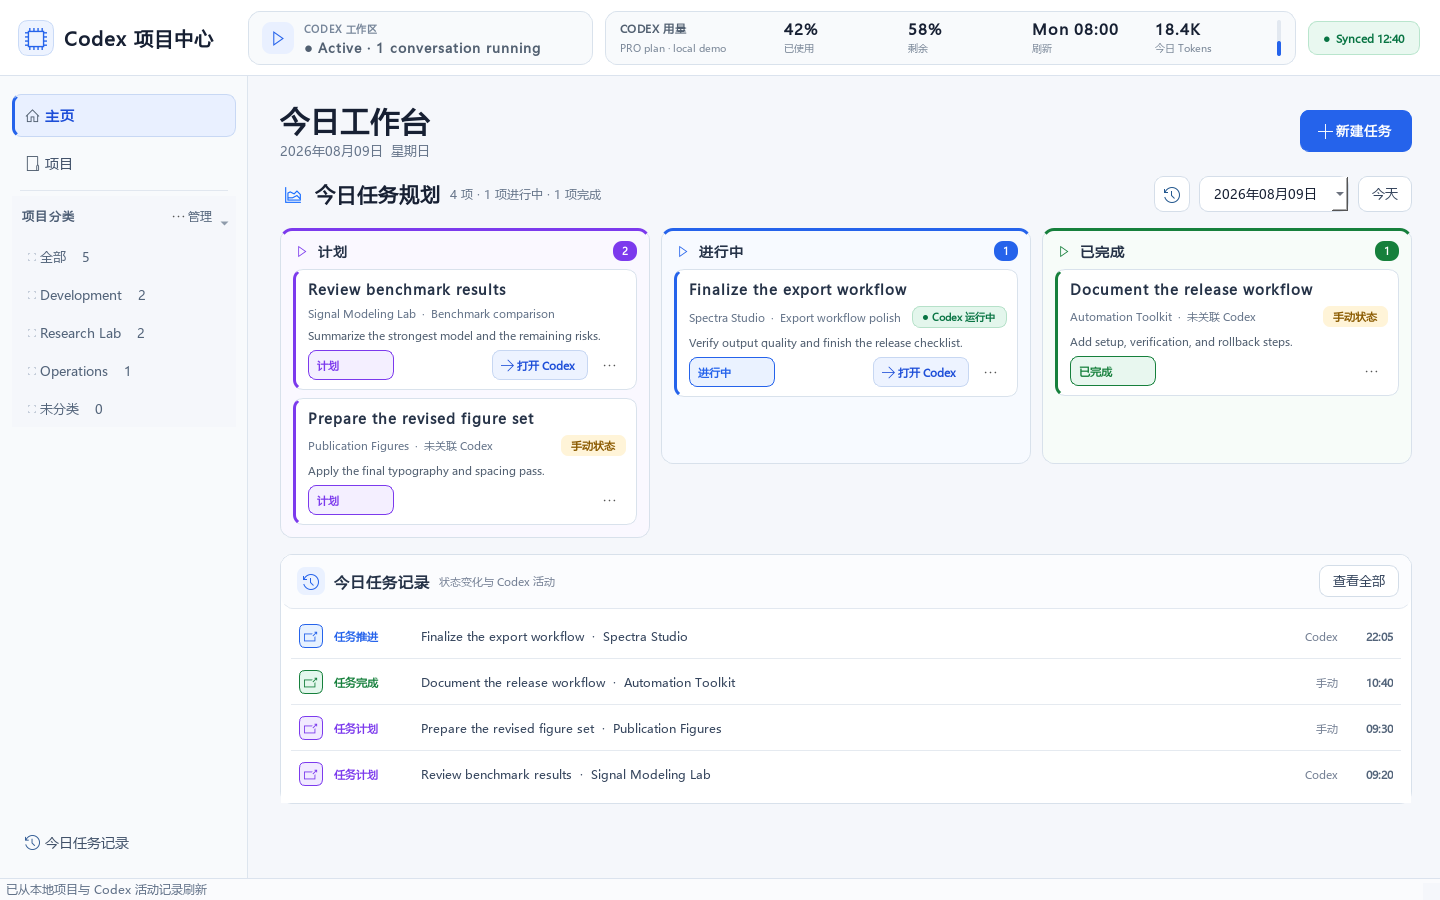
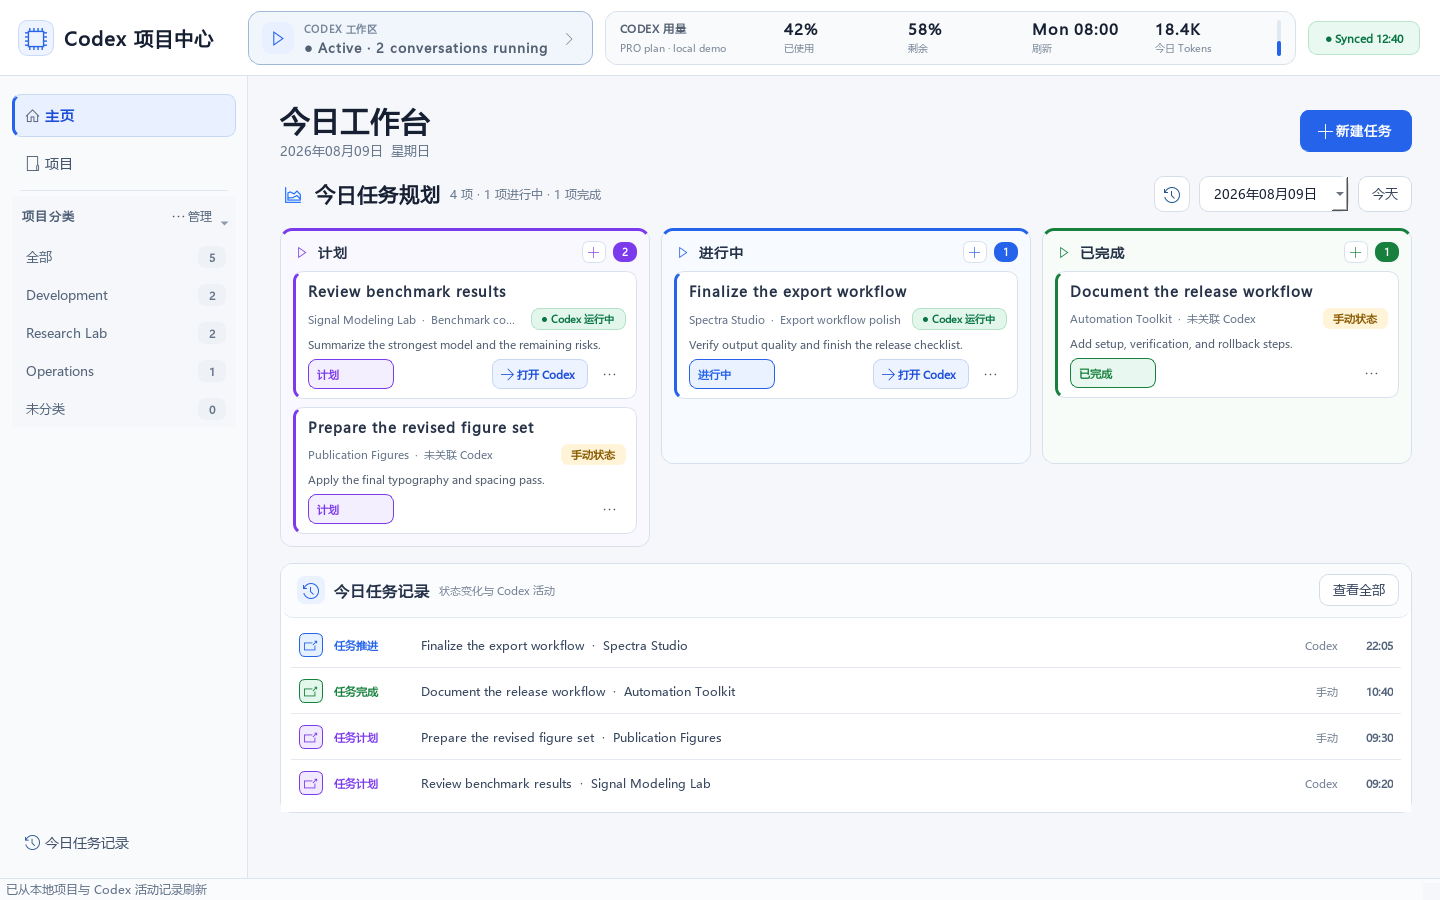
feat: improve project management interactions

diff --git a/tests/test_app_logic.py b/tests/test_app_logic.py
@@ -1,7 +1,8 @@
 import importlib.util
 import unittest
 from pathlib import Path
-from unittest.mock import patch
+from types import SimpleNamespace
+from unittest.mock import Mock, patch
 
 
 APP_PATH = Path(__file__).resolve().parents[1] / "app_qt.pyw"
@@ -28,6 +29,54 @@ class ConversationMappingTests(unittest.TestCase):
             result = APP.codex_thread_project_map(projects, index)
         self.assertEqual(result["sidebar-thread"], "project-a")
         self.assertEqual(result["new-thread"], "project-a")
+
+
+class ProjectDisplayStateTests(unittest.TestCase):
+    def test_running_conversation_takes_priority(self):
+        project = {"status": "completed", "conversations": [{"state": "working"}]}
+        self.assertEqual(APP.project_display_state(project)[0], "running")
+
+    def test_completed_conversation_does_not_complete_project(self):
+        project = {"status": "active", "conversations": [{"state": "completed"}]}
+        self.assertEqual(APP.project_display_state(project)[0], "linked")
+
+    def test_project_completion_and_unlinked_states(self):
+        self.assertEqual(APP.project_display_state({"status": "completed", "conversations": []})[0], "completed")
+        self.assertEqual(APP.project_display_state({"status": "active", "conversations": []})[0], "unlinked")
+
+
+class ProjectManagementInteractionTests(unittest.TestCase):
+    def test_search_matches_conversation_title_and_status(self):
+        search = SimpleNamespace(text=lambda: "benchmark")
+        status_filter = SimpleNamespace(currentData=lambda: "running")
+        window = SimpleNamespace(
+            category="全部",
+            search=search,
+            status_filter=status_filter,
+            projects=[
+                {
+                    "name": "Research project",
+                    "category": "Research",
+                    "conversations": [{"conversationLabel": "Benchmark review", "state": "working"}],
+                },
+                {
+                    "name": "Other project",
+                    "category": "Research",
+                    "conversations": [{"conversationLabel": "Benchmark archive", "state": "completed"}],
+                },
+            ],
+        )
+        result = APP.MainWindow.shown(window)
+        self.assertEqual([item["name"] for item in result], ["Research project"])
+
+    def test_continue_project_prefers_running_conversation(self):
+        linked = {"sessionId": "linked", "state": "linked"}
+        running = {"sessionId": "running", "state": "working"}
+        window = SimpleNamespace(copy_context=Mock(), open_codex_conversation=Mock())
+        project = {"conversations": [linked, running]}
+        APP.MainWindow.continue_project(window, project)
+        window.copy_context.assert_called_once_with(project)
+        window.open_codex_conversation.assert_called_once_with(running)
 
 
 if __name__ == "__main__":

diff --git a/README.md b/README.md
@@ -14,6 +14,10 @@ Codex remains the main interface for conversation and execution. This applicatio
 
 ![Projects and linked Codex conversations](docs/images/project-list.png)
 
+### Running conversations
+
+![Running Codex conversation manager](docs/images/running-conversations.png)
+
 All screenshots use fictional sample data. They do not contain real project paths, account information, or Codex conversation IDs.
 
 ## Features
@@ -24,8 +28,10 @@ All screenshots use fictional sample data. They do not contain real project path
 - Create, edit, remove, and reorder projects.
 - Create, rename, delete, and reorder categories.
 - Move projects between categories.
-- Search projects by name, category, path, or next action.
+- Search projects by name, category, path, next action, conversation title, or conversation summary.
+- Filter projects by running, completed, linked, or unlinked state.
 - Expand a project to view its linked Codex conversations.
+- Continue a project by copying its handoff context and opening the running or most recent Codex conversation.
 
 Removing a project from the application does not delete its folder or Codex conversations.
 
@@ -34,6 +40,7 @@ Removing a project from the application does not delete its folder or Codex conv
 - Create tasks for any date.
 - Associate a task with a category, project, and optional Codex conversation.
 - Use three task states: **Planned**, **In Progress**, and **Completed**.
+- Create a task directly in any board column with that state preselected.
 - Automatically move a linked task to **In Progress** when Codex starts working on its conversation.
 - Keep a daily activity record.
 - Carry unfinished in-progress tasks to the next day while preserving previous records.
@@ -44,6 +51,7 @@ Removing a project from the application does not delete its folder or Codex conv
 - Exclude Codex subagent and guardian threads from the project list.
 - Match conversations to projects using Codex metadata and working-directory paths.
 - Display the saved Codex conversation title and current run state.
+- Click the global workspace status to inspect every running conversation and open it in Codex.
 - Open a conversation with the `codex://threads/<id>` desktop deep link.
 - Show running, completed, and linked states.
 - Read Codex quota usage and reset time.
